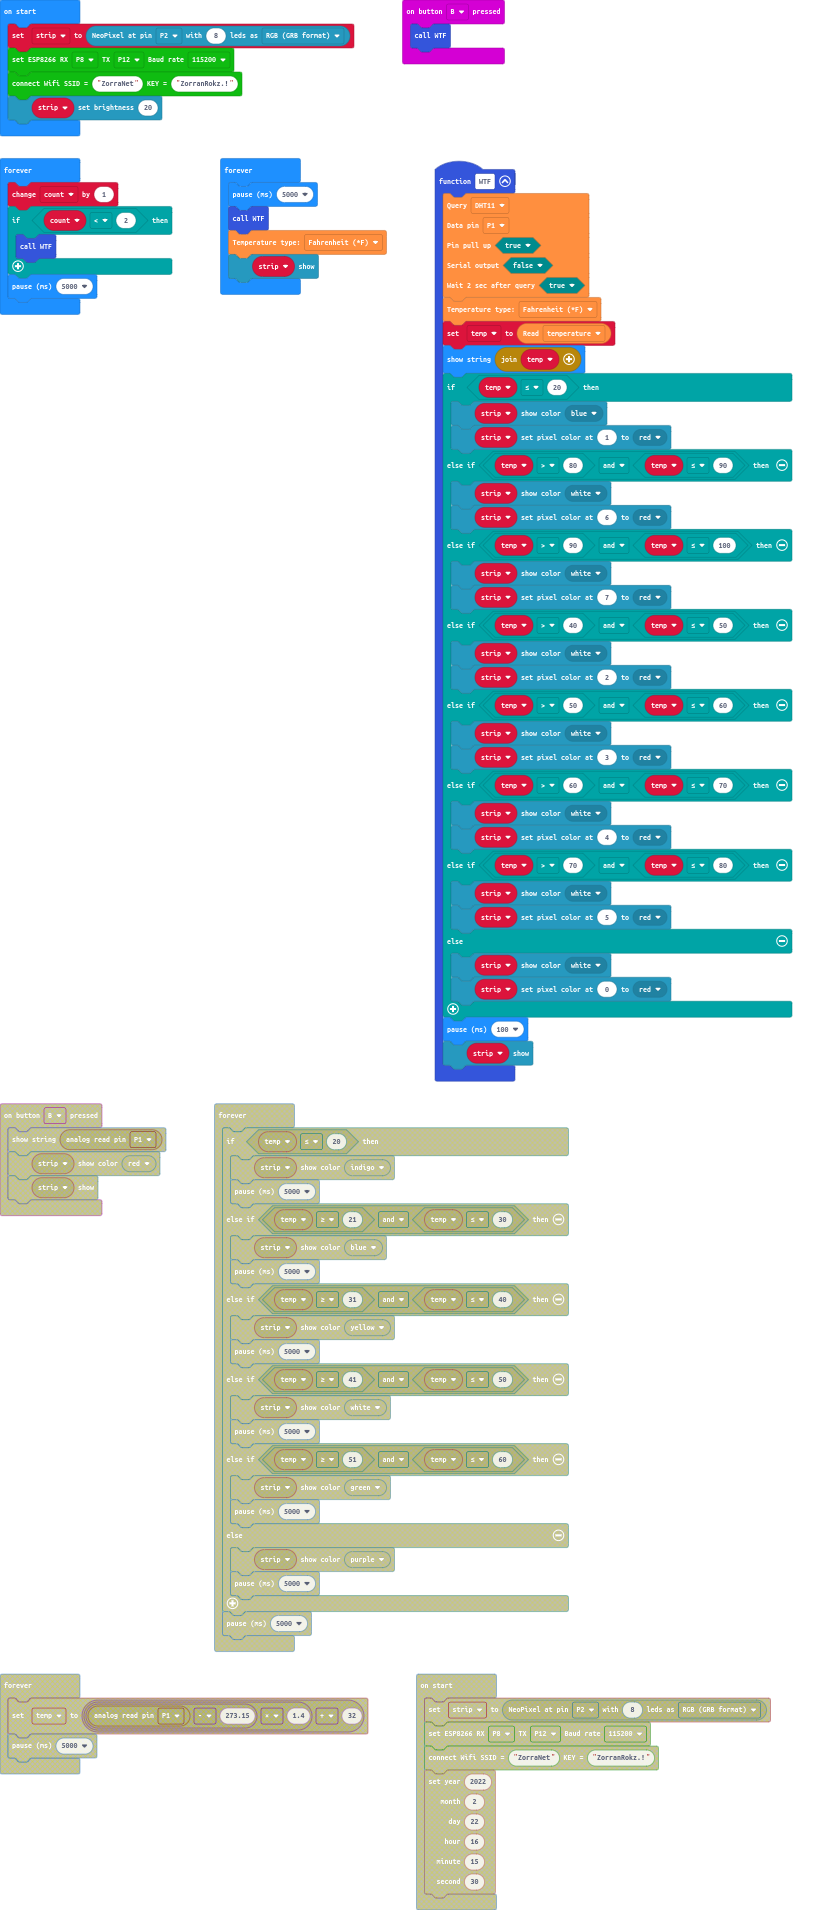
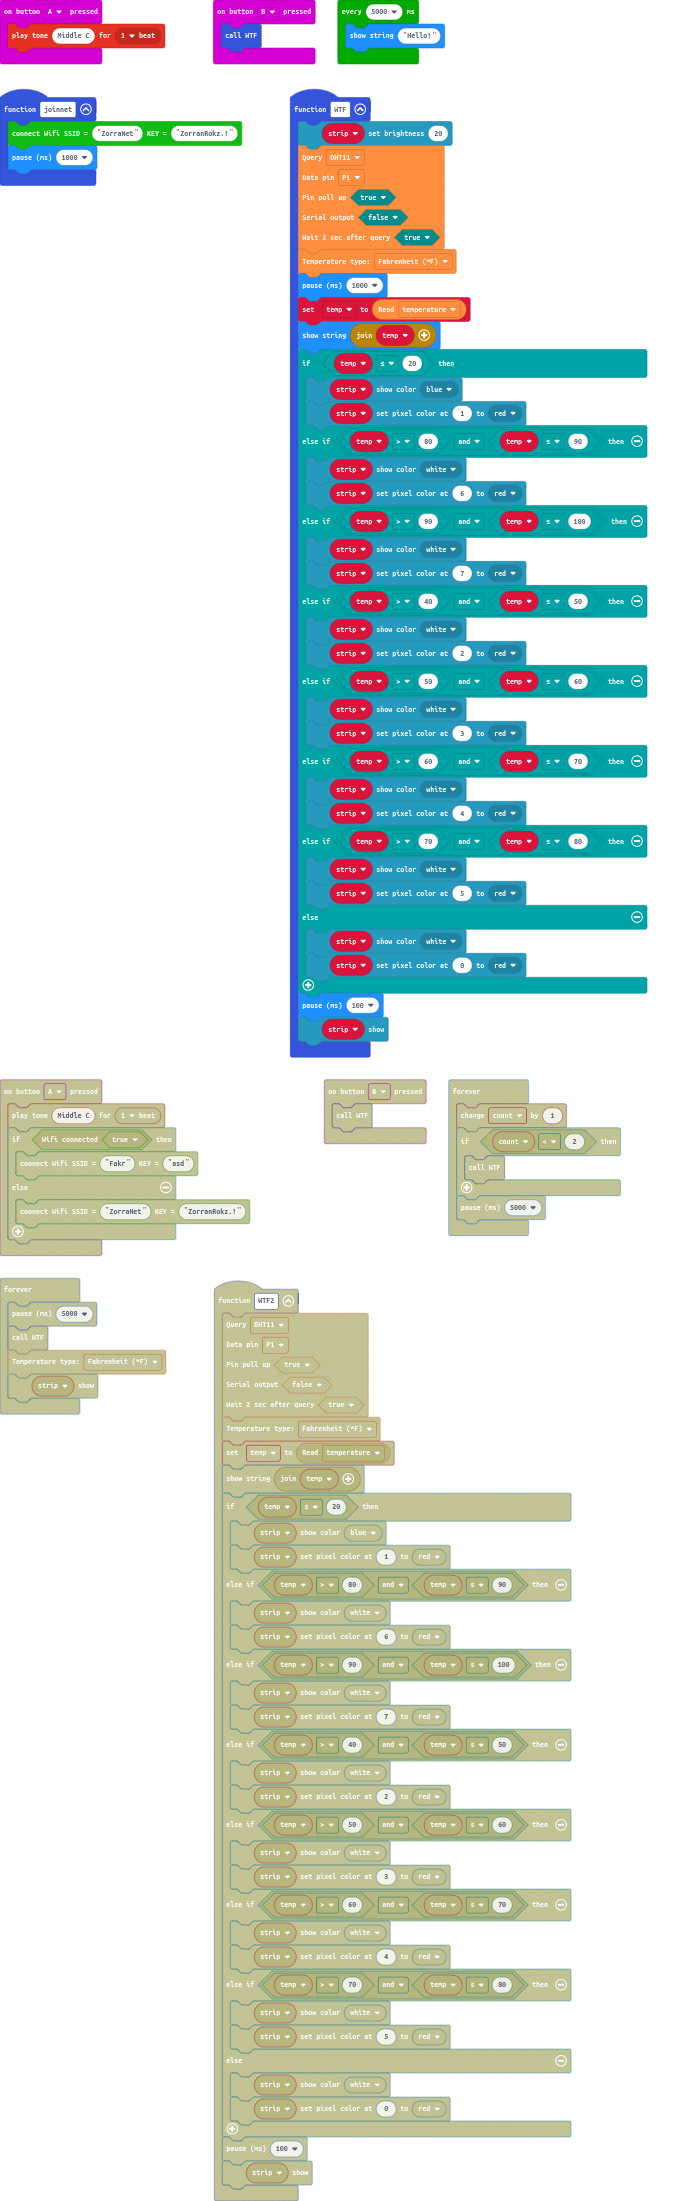
B4

diff --git a/main.ts b/main.ts
@@ -1,12 +1,8 @@
 input.onButtonPressed(Button.A, function () {
     music.playTone(262, music.beat(BeatFraction.Whole))
-    if (ESP8266_IoT.wifiState(true)) {
-        ESP8266_IoT.connectWifi("Fakr", "asd")
-    } else {
-        ESP8266_IoT.connectWifi("ZorraNet", "ZorranRokz.!")
-    }
 })
 function WTF () {
+    strip.setBrightness(20)
     dht11_dht22.queryData(
     DHTtype.DHT11,
     DigitalPin.P1,
@@ -15,6 +11,7 @@ function WTF () {
     true
     )
     dht11_dht22.selectTempType(tempType.fahrenheit)
+    basic.pause(1000)
     temp = dht11_dht22.readData(dataType.temperature)
     basic.showString("" + temp)
     if (temp <= 20) {
@@ -45,29 +42,22 @@ function WTF () {
     basic.pause(100)
     strip.show()
 }
+function joinnet () {
+    ESP8266_IoT.connectWifi("ZorraNet", "ZorranRokz.!")
+    basic.pause(1000)
+}
 input.onButtonPressed(Button.B, function () {
     WTF()
 })
 serial.onDataReceived(serial.delimiters(Delimiters.NewLine), function () {
     basic.showString(serial.readUntil(serial.delimiters(Delimiters.NewLine)))
 })
-let count = 0
 let temp = 0
 let strip: neopixel.Strip = null
 strip = neopixel.create(DigitalPin.P2, 8, NeoPixelMode.RGB)
 ESP8266_IoT.initWIFI(SerialPin.P8, SerialPin.P12, BaudRate.BaudRate115200)
 ESP8266_IoT.connectWifi("ZorraNet", "ZorranRokz.!")
 strip.setBrightness(20)
-basic.forever(function () {
-    count += 1
-    if (count < 2) {
-        WTF()
-    }
-    basic.pause(5000)
-})
-basic.forever(function () {
-    basic.pause(5000)
-    WTF()
-    dht11_dht22.selectTempType(tempType.fahrenheit)
-    strip.show()
+loops.everyInterval(5000, function () {
+    basic.showString("Hello!")
 })

diff --git a/main.py b/main.py
@@ -1,33 +1,44 @@
 def on_button_pressed_a():
     music.play_tone(262, music.beat(BeatFraction.WHOLE))
-    if ESP8266_IoT.wifi_state(True):
-        ESP8266_IoT.connect_wifi("Fakr", "asd")
-    else:
-        ESP8266_IoT.connect_wifi("ZorraNet", "ZorranRokz.!")
 input.on_button_pressed(Button.A, on_button_pressed_a)
 
 def WTF():
     global temp
+    strip.set_brightness(20)
     dht11_dht22.query_data(DHTtype.DHT11, DigitalPin.P1, True, False, True)
     dht11_dht22.select_temp_type(tempType.FAHRENHEIT)
+    basic.pause(1000)
     temp = dht11_dht22.read_data(dataType.TEMPERATURE)
     basic.show_string("" + str(temp))
     if temp <= 20:
-        strip.show_color(neopixel.colors(NeoPixelColors.INDIGO))
-    elif temp >= 81 and temp <= 90:
-        strip.show_color(neopixel.colors(NeoPixelColors.RED))
-    elif temp >= 91 and temp <= 100:
         strip.show_color(neopixel.colors(NeoPixelColors.BLUE))
-    elif temp >= 41 and temp <= 50:
+        strip.set_pixel_color(1, neopixel.colors(NeoPixelColors.RED))
+    elif temp > 80 and temp <= 90:
         strip.show_color(neopixel.colors(NeoPixelColors.WHITE))
-    elif temp >= 51 and temp <= 60:
-        strip.show_color(neopixel.colors(NeoPixelColors.GREEN))
-    elif temp >= 61 and temp <= 70:
-        strip.show_color(neopixel.colors(NeoPixelColors.ORANGE))
-    elif temp >= 71 and temp <= 80:
-        strip.show_color(neopixel.colors(NeoPixelColors.PURPLE))
+        strip.set_pixel_color(6, neopixel.colors(NeoPixelColors.RED))
+    elif temp > 90 and temp <= 100:
+        strip.show_color(neopixel.colors(NeoPixelColors.WHITE))
+        strip.set_pixel_color(7, neopixel.colors(NeoPixelColors.RED))
+    elif temp > 40 and temp <= 50:
+        strip.show_color(neopixel.colors(NeoPixelColors.WHITE))
+        strip.set_pixel_color(2, neopixel.colors(NeoPixelColors.RED))
+    elif temp > 50 and temp <= 60:
+        strip.show_color(neopixel.colors(NeoPixelColors.WHITE))
+        strip.set_pixel_color(3, neopixel.colors(NeoPixelColors.RED))
+    elif temp > 60 and temp <= 70:
+        strip.show_color(neopixel.colors(NeoPixelColors.WHITE))
+        strip.set_pixel_color(4, neopixel.colors(NeoPixelColors.RED))
+    elif temp > 70 and temp <= 80:
+        strip.show_color(neopixel.colors(NeoPixelColors.WHITE))
+        strip.set_pixel_color(5, neopixel.colors(NeoPixelColors.RED))
+    else:
+        strip.show_color(neopixel.colors(NeoPixelColors.WHITE))
+        strip.set_pixel_color(0, neopixel.colors(NeoPixelColors.RED))
     basic.pause(100)
     strip.show()
+def joinnet():
+    ESP8266_IoT.connect_wifi("ZorraNet", "ZorranRokz.!")
+    basic.pause(1000)
 
 def on_button_pressed_b():
     WTF()
@@ -37,24 +48,46 @@ def on_data_received():
     basic.show_string(serial.read_until(serial.delimiters(Delimiters.NEW_LINE)))
 serial.on_data_received(serial.delimiters(Delimiters.NEW_LINE), on_data_received)
 
-count = 0
 temp = 0
 strip: neopixel.Strip = None
 strip = neopixel.create(DigitalPin.P2, 8, NeoPixelMode.RGB)
 ESP8266_IoT.init_wifi(SerialPin.P8, SerialPin.P12, BaudRate.BAUD_RATE115200)
 ESP8266_IoT.connect_wifi("ZorraNet", "ZorranRokz.!")
+strip.set_brightness(20)
 
-def on_forever():
-    global count
-    count += 1
-    if count < 2:
-        WTF()
-    basic.pause(5000)
-basic.forever(on_forever)
-
-def on_forever2():
-    basic.pause(5000)
-    WTF()
+def on_every_interval():
+    global temp
+    strip.set_brightness(20)
+    dht11_dht22.query_data(DHTtype.DHT11, DigitalPin.P1, True, False, True)
     dht11_dht22.select_temp_type(tempType.FAHRENHEIT)
+    basic.pause(1000)
+    temp = dht11_dht22.read_data(dataType.TEMPERATURE)
+    basic.show_string("" + str(temp))
+    if temp <= 20:
+        strip.show_color(neopixel.colors(NeoPixelColors.BLUE))
+        strip.set_pixel_color(1, neopixel.colors(NeoPixelColors.RED))
+    elif temp > 80 and temp <= 90:
+        strip.show_color(neopixel.colors(NeoPixelColors.WHITE))
+        strip.set_pixel_color(6, neopixel.colors(NeoPixelColors.RED))
+    elif temp > 90 and temp <= 100:
+        strip.show_color(neopixel.colors(NeoPixelColors.WHITE))
+        strip.set_pixel_color(7, neopixel.colors(NeoPixelColors.RED))
+    elif temp > 40 and temp <= 50:
+        strip.show_color(neopixel.colors(NeoPixelColors.WHITE))
+        strip.set_pixel_color(2, neopixel.colors(NeoPixelColors.RED))
+    elif temp > 50 and temp <= 60:
+        strip.show_color(neopixel.colors(NeoPixelColors.WHITE))
+        strip.set_pixel_color(3, neopixel.colors(NeoPixelColors.RED))
+    elif temp > 60 and temp <= 70:
+        strip.show_color(neopixel.colors(NeoPixelColors.WHITE))
+        strip.set_pixel_color(4, neopixel.colors(NeoPixelColors.RED))
+    elif temp > 70 and temp <= 80:
+        strip.show_color(neopixel.colors(NeoPixelColors.WHITE))
+        strip.set_pixel_color(5, neopixel.colors(NeoPixelColors.RED))
+    else:
+        strip.show_color(neopixel.colors(NeoPixelColors.WHITE))
+        strip.set_pixel_color(0, neopixel.colors(NeoPixelColors.RED))
+    basic.pause(100)
     strip.show()
-basic.forever(on_forever2)
+
+loops.every_interval(5000, on_every_interval)
